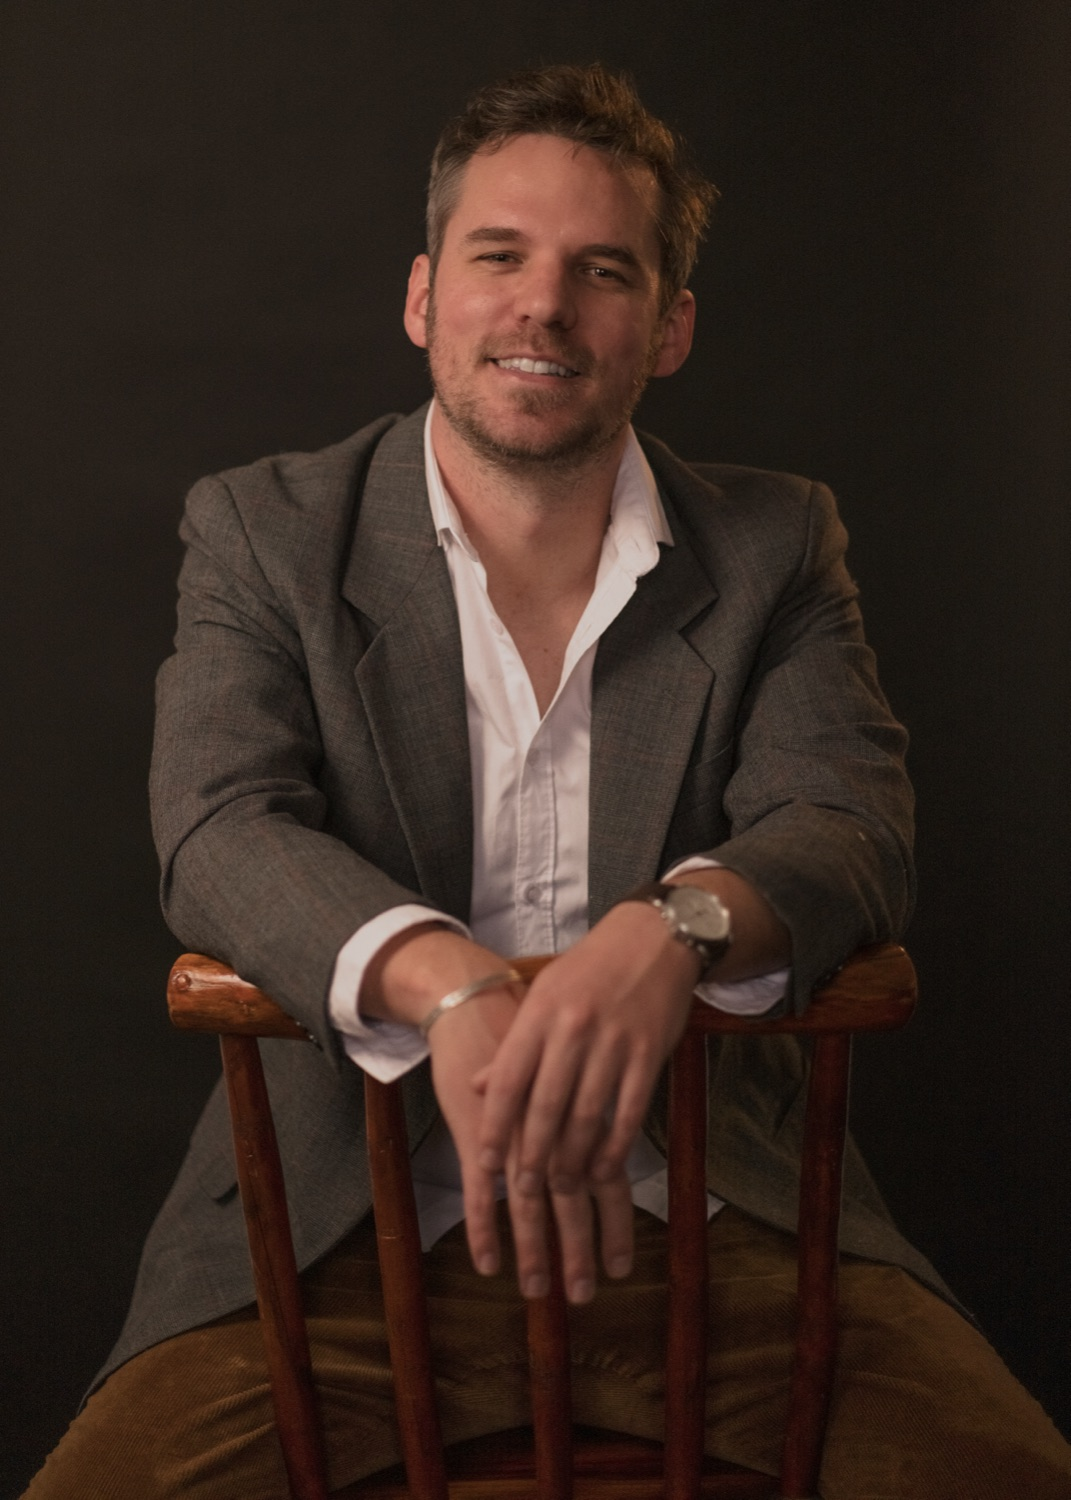
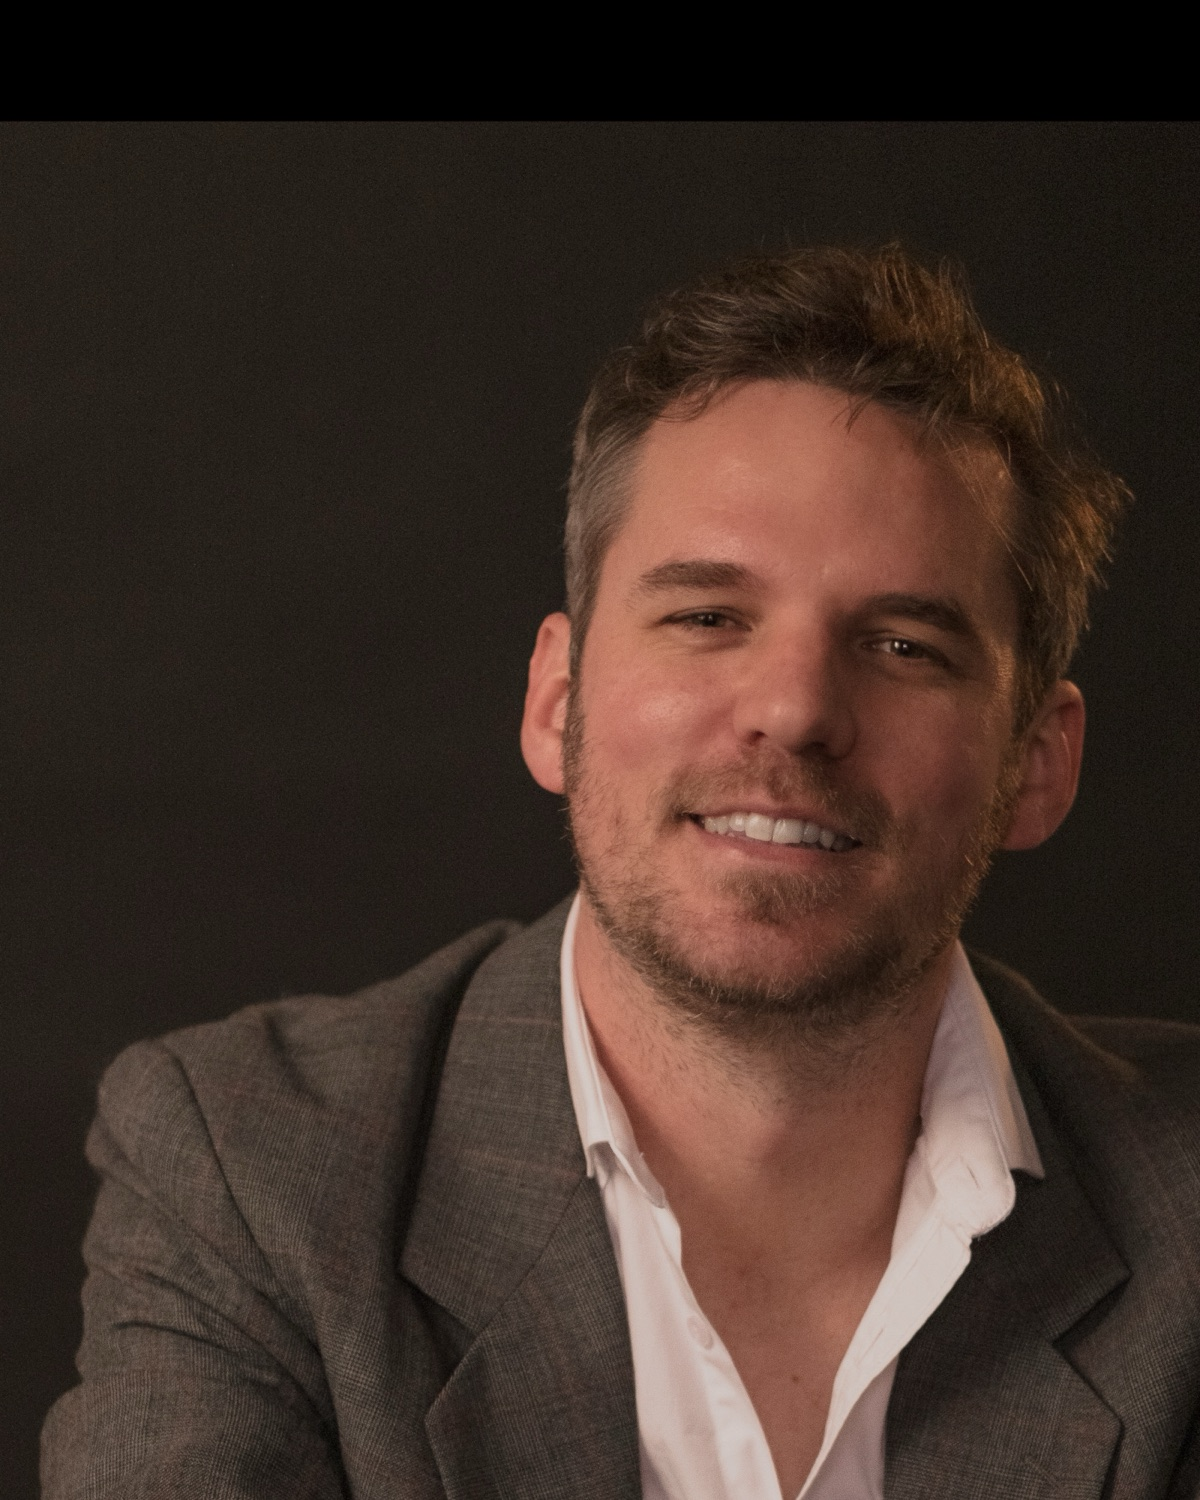
Recrop portrait to face + invert folder SVG in dark mode
Portrait now frames face + collar + jacket (was full body with a tall
black void above). Folder SVG uses ink-dark stroke that was invisible
against the dark page — added to the dark-mode invert rule.

diff --git a/site.css b/site.css
@@ -132,7 +132,8 @@ body.no-shapes .jr-contact__shapes { display: none !important; }
 .jr-annot { display: flex; align-items: center; gap: 8px; }
 .jr-annot img { width: 50px; opacity: 0.6; }
 body.is-dark .jr-annot img { filter: invert(1) brightness(1.6); }
-body.is-dark img[src*="-outline"] { filter: invert(1) brightness(0.92); }
+body.is-dark img[src*="-outline"],
+body.is-dark .jr-folder-cta__folder img { filter: invert(1) brightness(0.92); }
 
 .jr-hero__name {
   display: flex; flex-direction: column;